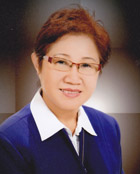
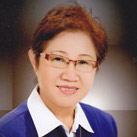
Edited all photos to be square and added two new employees

diff --git a/about.html b/about.html
@@ -123,6 +123,17 @@
           </aside>
           <aside class="col-1-2">
             <div class="speaker-info">
+              <img src="assets/images/employees/AnnieKan.jpg" alt="Annie Kan">
+              <h2>Annie Kan</h2>
+              <h5>Insurance Agent</h5>
+              <ul>
+                <li>(626) 375-3317</li>
+                <li>AKan@unitedalliance.us</li>
+              </ul>
+            </div>
+          </aside>
+          <aside class="col-1-2">
+            <div class="speaker-info">
               <img src="assets/images/employees/AnnacyHwang.jpg" alt="Annacy Hwang">
               <h2>Annacy Hwang</h2>
               <h5>Insurance Agent</h5>
@@ -217,6 +228,17 @@
               <ul>
                 <li>(626) 644-9277</li>
                 <li>Jhsu@UnitedAlliance.us</li>
+              </ul>
+            </div>
+          </aside>
+          <aside class="col-1-2">
+            <div class="speaker-info">
+              <img src="assets/images/employees/JudyShen.png" alt="Judy Shen">
+              <h2>Judy Shen</h2>
+              <h5>Insurance Agent</h5>
+              <ul>
+                <li>(626) 321-6311</li>
+                <li>peacejoy2u@yahoo.com</li>
               </ul>
             </div>
           </aside>
